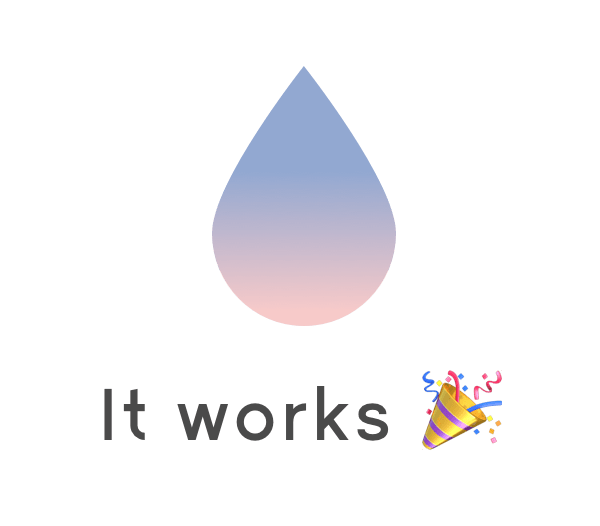
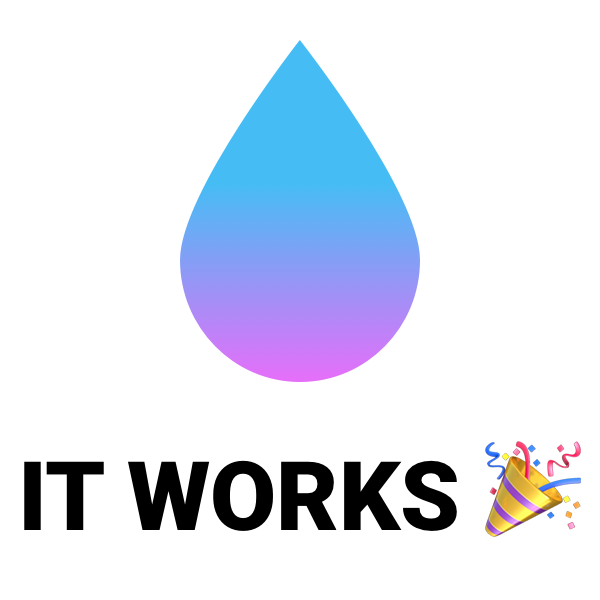
remove extraneous test files and update image

Changed region(s): [[0.3, 0.0608, 0.72, 0.6388], [0.03, 0.6996, 0.99, 0.9125]]

diff --git a/Package.swift b/Package.swift
@@ -8,7 +8,7 @@ let package = Package(
         .package(url: "https://github.com/vapor/vapor.git", from: "3.0.0"),
 
         // 🍃 An expressive, performant, and extensible templating language built for Swift.
-        .package(url: "https://github.com/vapor/leaf.git", from: "3.0.0-rc"),
+        .package(url: "https://github.com/vapor/leaf.git", from: "3.0.0"),
     ],
     targets: [
         .target(name: "App", dependencies: ["Leaf", "Vapor"]),

diff --git a/Tests/AppTests/AppTests.swift b/Tests/AppTests/AppTests.swift
@@ -1,0 +1,12 @@
+import XCTest
+@testable import App
+
+class AppTests: XCTestCase {
+    func testStub() throws {
+        XCTAssert(true)
+    }
+    
+    static let allTests = [
+        ("testStub", testStub),
+    ]
+}

diff --git a/Tests/LinuxMain.swift b/Tests/LinuxMain.swift
@@ -5,8 +5,7 @@ import XCTest
 
 XCTMain([
     // AppTests
-    testCase(PostControllerTests.allTests),
-    testCase(RouteTests.allTests)
+    testCase(AppTests.allTests),
 ])
 
 #endif
